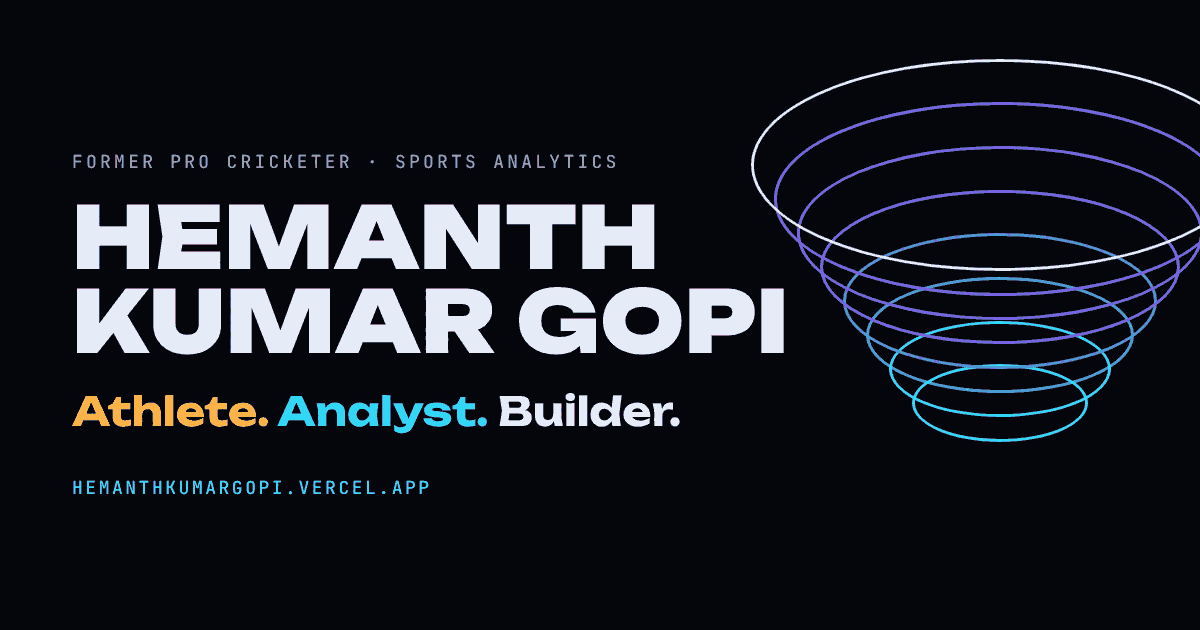
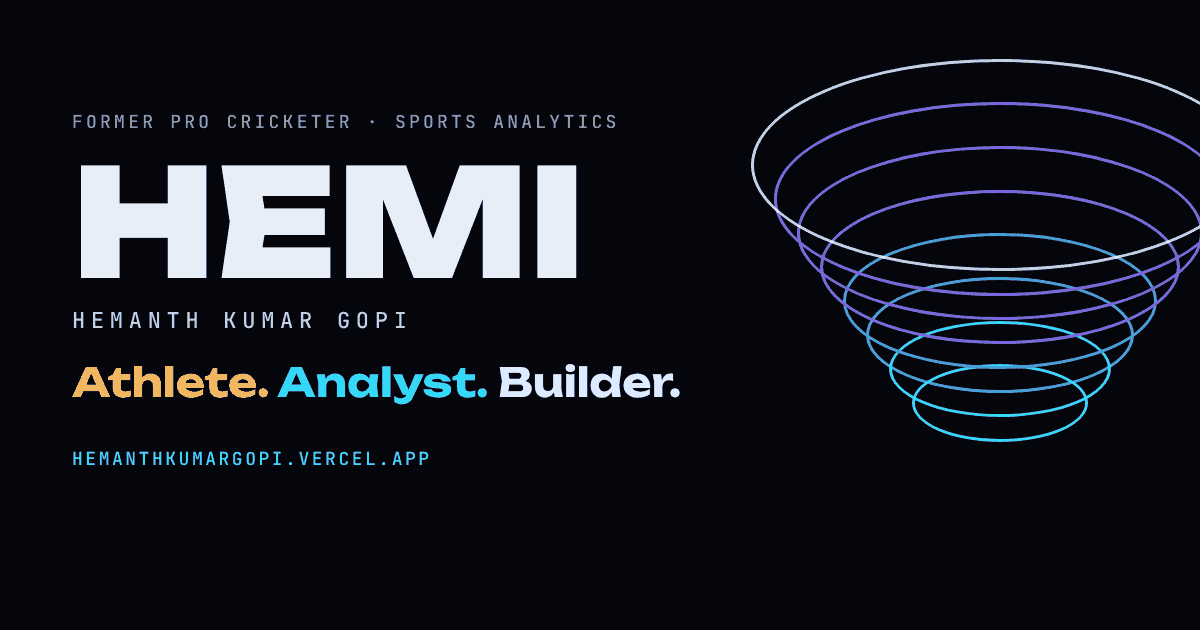
Rebrand landing page and share card to Hemi
Claude-Session: https://claude.ai/code/session_01TLZybRTTkrDGexmytvUC8a

diff --git a/index.html b/index.html
@@ -3,10 +3,10 @@
 <head>
 <meta name="viewport" content="width=device-width, initial-scale=1, viewport-fit=cover">
 <meta charset="utf-8">
-<title>Hemanth Kumar</title>
+<title>Hemi · Hemanth Kumar Gopi</title>
 <meta name="claude:viewport-fit-sides" content="cover">
-<meta name="description" content="Hemanth Kumar Gopi: former professional cricketer turned sports analyst. Athlete, analyst, builder. Boston, MA.">
-<meta property="og:title" content="Hemanth Kumar Gopi · Athlete. Analyst. Builder.">
+<meta name="description" content="Hemi (Hemanth Kumar Gopi): former professional cricketer turned sports analyst. Athlete, analyst, builder. Boston, MA.">
+<meta property="og:title" content="Hemi · Athlete. Analyst. Builder.">
 <meta property="og:description" content="Former professional cricketer building a career in sports analytics, machine learning and AI. Boston, MA.">
 <meta property="og:type" content="website">
 <meta name="twitter:card" content="summary_large_image">
@@ -125,6 +125,8 @@ p strong{color:var(--text)}
 /* hero */
 .hero .col{max-width:760px;gap:20px}
 .hero h1{font-weight:900;font-size:clamp(34px,6.6vw,92px);line-height:.98;text-transform:uppercase}
+.hero h1.hemi{font-size:clamp(72px,13vw,176px);letter-spacing:-.01em;line-height:.9}
+.fullname{margin-top:12px;letter-spacing:.24em;text-transform:uppercase;color:var(--silver);font-size:13px}
 .tri{font-family:var(--display);font-weight:700;font-size:clamp(20px,3vw,36px);line-height:1.15;display:flex;flex-wrap:wrap;gap:0 18px}
 .tri span:nth-child(1){color:var(--amber)}.tri span:nth-child(2){color:var(--cyan)}.tri span:nth-child(3){color:var(--ice)}
 .hud{display:grid;grid-template-columns:repeat(3,minmax(0,1fr));gap:1px;background:var(--line);border:1px solid var(--line);border-radius:6px;overflow:hidden;max-width:760px}
@@ -318,7 +320,7 @@ details.cs .csb{display:flex;flex-direction:column;gap:14px;padding-bottom:16px}
 <div class="cur" id="cur" aria-hidden="true"></div>
 
 <div id="intro" role="dialog" aria-label="Introduction">
-  <div class="name sp" data-split style="--d:1.2s">HEMANTH</div>
+  <div class="name sp" data-split style="--d:1.2s">HEMI</div>
   <div class="sub fade" style="--d:2.2s">BEYOND THE GAME.</div>
   <p class="say fade" style="--d:3s">I played the game. Now I study what drives it.</p>
   <div class="acts fade" style="--d:.5s">
@@ -329,7 +331,7 @@ details.cs .csb{display:flex;flex-direction:column;gap:14px;padding-bottom:16px}
 </div>
 
 <header class="top">
-  <a class="brand" href="#top">HEMANTH<i>.</i></a>
+  <a class="brand" href="#top">HEMI<i>.</i></a>
   <nav aria-label="Sections" id="nav"></nav>
   <div class="tools">
     <div class="modes" role="group" aria-label="Experience mode"><button type="button" data-mode="immersive" aria-pressed="true">Immersive</button><button type="button" data-mode="recruiter" aria-pressed="false">Recruiter</button></div>
@@ -343,7 +345,7 @@ details.cs .csb{display:flex;flex-direction:column;gap:14px;padding-bottom:16px}
 
 <main id="main"></main>
 <div id="rec" role="main" aria-label="Recruiter view"></div>
-<footer class="mono">© 2026 Hemanth Kumar Gopi · Chennai → Boston · Built with canvas, math and a lot of cricket</footer>
+<footer class="mono">© 2026 Hemi (Hemanth Kumar Gopi) · Chennai → Boston · Built with canvas, math and a lot of cricket</footer>
 
 <script>
 /* =====================================================================
@@ -551,7 +553,8 @@ function scene(id,label,html,attrs){const s=h(`<section class="sc ${attrs.cls||'
 
 scene('top','Hero',`<div class="col">
   <div class="mono kick rv">Scene 01 · Athlete to analyst to builder</div>
-  <h1 class="rv">Hemanth Kumar Gopi</h1>
+  <h1 class="rv hemi">Hemi</h1>
+  <div class="fullname mono rv">Hemanth Kumar Gopi</div>
   <div class="tri rv"><span>Athlete.</span><span>Analyst.</span><span>Builder.</span></div>
   <p class="rv" style="font-size:19px">Turning a lifetime in sports into a future built with data, technology, and curiosity.</p>
   <div class="row rv"><a class="btn mag" href="#story">Explore my journey</a><a class="btn ghost mag" href="#work">Discover my work</a></div>
@@ -954,8 +957,8 @@ function palette(){const items=[...scenes.filter(s=>s.nav||s.id==='top'||s.id===
   const draw=()=>{ul.innerHTML='';list.forEach((it,i)=>{const li=h(`<li><button type="button" class="${i===idx?'act':''}"><span>${esc(it.l)}</span><span class="mono">${it.k}</span></button></li>`);li.firstChild.onclick=()=>{closeDlg();it.f()};ul.appendChild(li)})};
   inp.oninput=()=>{const q=inp.value.toLowerCase();list=items.filter(i=>i.l.toLowerCase().includes(q));idx=0;draw()};
   inp.onkeydown=e=>{if(e.key==='ArrowDown'){idx=Math.min(list.length-1,idx+1);draw();e.preventDefault()}else if(e.key==='ArrowUp'){idx=Math.max(0,idx-1);draw();e.preventDefault()}else if(e.key==='Enter'&&list[idx]){const f=list[idx].f;closeDlg();f()}};draw();inp.focus()}
-function brief(){const av=CONTENT.portrait?`<img class="mono-av" src="${esc(CONTENT.portrait)}" alt="Portrait of Hemanth Kumar Gopi">`:`<div class="mono-av" aria-hidden="true">HK</div>`;
-  const d=openDlg(`<div class="brief">${av}<div><div class="mono cy">Quick brief</div><h3 style="margin:6px 0 14px">Hemanth Kumar Gopi</h3>
+function brief(){const av=CONTENT.portrait?`<img class="mono-av" src="${esc(CONTENT.portrait)}" alt="Portrait of Hemanth Kumar Gopi">`:`<div class="mono-av" aria-hidden="true">H.</div>`;
+  const d=openDlg(`<div class="brief">${av}<div><div class="mono cy">Quick brief</div><h3 style="margin:6px 0 2px">Hemi</h3><div class="mono" style="margin-bottom:14px;color:var(--silver)">Hemanth Kumar Gopi</div>
   <dl><div><dt>Who</dt><dd>Former professional cricketer (Tamil Nadu Premier League, state-level) with a B.E. in Computer Science, now a sports analyst. Boston, MA; from Chennai, India.</dd></div>
   <div><dt>Now</dt><dd>MS in Business Analytics, Suffolk University (expected May 2027). 2026 MIT Sloan Sports Analytics Conference mentee. Graduate Fellow and teaching assistant; men's basketball program.</dd></div>
   <div><dt>Focus</dt><dd>Sports analytics, predictive modeling, machine learning and computer vision for performance. Interested in the NFL, NBA, MLB and NHL.</dd></div>
@@ -977,7 +980,8 @@ if(FINE&&!RM){window.addEventListener('pointermove',e=>{curEl.classList.add('on'
 function copyTo(out){const t=CONTENT.contact.email;const fb=()=>{out.textContent=t+' (select and copy)'};try{navigator.clipboard.writeText(t).then(()=>{out.textContent='Copied'},fb)}catch(e){fb()}track('copy_email')}
 function renderRec(){const r=$('#rec'),c=CONTENT.contact,sk=(l)=>CONTENT.skills.filter(x=>x.lvl===l).map(x=>`<span class="${l==='x'?'x':''}">${esc(x.n)}</span>`).join('');
   r.innerHTML=`<div class="mono kick">Recruiter mode · 20-second read</div>
-  <h1>Hemanth Kumar Gopi</h1>
+  <h1>Hemi</h1>
+  <div class="mono" style="letter-spacing:.2em;color:var(--silver);margin:-4px 0 10px">HEMANTH KUMAR GOPI</div>
   <p class="lead">${esc(CONTENT.headline)}</p>
   <ul style="margin:16px 0 20px">${CONTENT.pitch.map(x=>`<li>${esc(x)}</li>`).join('')}</ul>
   <div class="row" style="align-items:center;margin-bottom:26px"><button class="btn" id="r-copy" type="button">Copy email</button>

diff --git a/README.md b/README.md
@@ -1,7 +1,7 @@
 <div align="center">
 
-# HEMANTH KUMAR GOPI
-### Beyond the Game
+# HEMI
+### Hemanth Kumar Gopi · Beyond the Game
 
 **Athlete. Analyst. Builder.**
 
@@ -12,7 +12,7 @@
 [![Email](https://img.shields.io/badge/Email-Get%20in%20touch-f59e0b?style=for-the-badge&logo=gmail&logoColor=white)](mailto:hemanthkumargopi55@gmail.com)
 
 <a href="https://hemanthkumargopi.vercel.app">
-  <img src="og.png" alt="Hemanth Kumar Gopi: Athlete. Analyst. Builder." width="820">
+  <img src="og.png" alt="Hemi (Hemanth Kumar Gopi): Athlete. Analyst. Builder." width="820">
 </a>
 
 **[→ Open the live experience](https://hemanthkumargopi.vercel.app)**
@@ -149,7 +149,7 @@ I'm looking for **internships and roles in sports analytics, sports technology a
 
 *"Data didn't replace the work. It told me where to put it."*
 
-© Hemanth Kumar Gopi. All rights reserved.
+© Hemi (Hemanth Kumar Gopi). All rights reserved.
 The design, written content and code in this repository are personal work and may not be reused without permission.
 
 </div>
